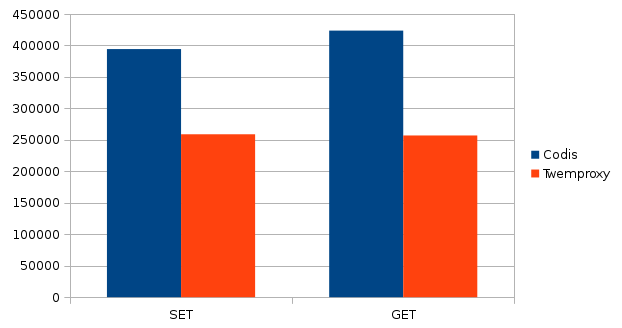
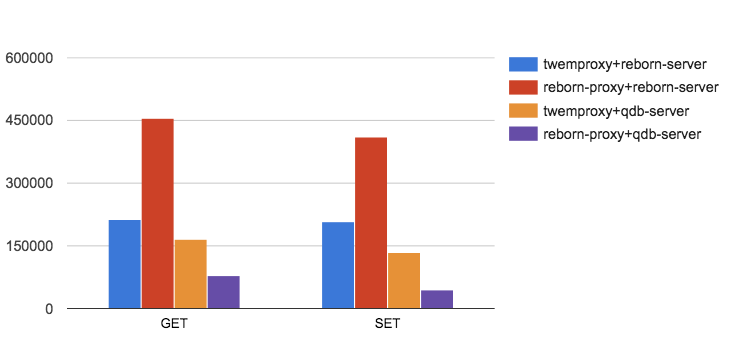
Modify bench

diff --git a/README.md b/README.md
@@ -8,7 +8,7 @@ Reborn is engineered to elastically scale, Easily add or remove redis or proxy i
 
 [![Build Status](https://travis-ci.org/reborndb/reborn.svg)](https://travis-ci.org/reborndb/reborn)
 
-##Features
+## Features
 * Auto rebalance
 * Extremely simple to use 
 * Support both redis or rocksdb transparently
@@ -41,28 +41,72 @@ Reborn is engineered to elastically scale, Easily add or remove redis or proxy i
 
 [简体中文](https://github.com/reborndb/reborn/blob/master/doc/FAQ_zh.md)
 
-[English (WIP) ](https://github.com/reborndb/reborn/blob/master/doc/FAQ_en.md)
+[English](https://github.com/reborndb/reborn/blob/master/doc/FAQ_en.md)
 
 ## Performance (Benchmark)
-Intel(R) Core(TM) i7-4770 CPU @ 3.40GHz
+OS:   Ubuntu SMP x86_64 GNU/Linux
 
-MemTotal: 16376596 kB
+CPU:  Intel(R) Core(TM) i7-4790 CPU @ 3.60GHz(8 cores)
+
+Mem:  16G
+
+Disk: 256G SSD
 
 
-Twemproxy:  
-  redis-benchmark -p 22121 -c 500 -n 5000000 -P 100 -r 10000 -t get,set
-  
-Reborn:  
-  redis-benchmark -p 19000 -c 500 -n 5000000 -P 100 -r 10000 -t get,set
++ twemproxy
+  - version 0.4.1
+  - config
+    ```
+    alpha:
+      listen: 127.0.0.1:22121
+      hash: crc32a
+      hash_tag: "{}"
+      distribution: ketama
+      auto_eject_hosts: false
+      timeout: 400
+      redis: true
+      servers:
+       - 127.0.0.1:6381:1
+       - 127.0.0.1:6382:1
+    ```
+
++ qdb-server
+  - see [here](https://github.com/reborndb/qdb)
+
+####1 twemproxy + 2 reborn-server  
+  redis-benchmark -p 22121 -c 500 -n 5000000 -P 100 -r 10000 -t get,set -q
+
+```
+SET: 209100.03 requests per second
+GET: 212404.41 requests per second
+```
+
+####1 reborn-proxy + 2 reborn-server  
+  redis-benchmark -p 19000 -c 500 -n 5000000 -P 100 -r 10000 -t get,set -q
+
+```
+SET: 410273.22 requests per second
+GET: 455913.19 requests per second
+```
+
+####1 twemproxy + 2 qdb-server  
+  redis-benchmark -p 22121 -c 500 -n 5000000 -P 100 -r 10000 -t get,set -q
+
+```
+SET: 133212.55 requests per second
+GET: 165584.84 requests per second
+```
+####1 reborn-proxy + 2 qdb-server  
+  redis-benchmark -p 19000 -c 500 -n 5000000 -P 100 -r 10000 -t get,set -q
+
+```
+SET: 45909.04 requests per second
+GET: 77690.41 requests per second
+```
 
 Result:  
 
-![main](doc/bench.png)  
-
-
-
-[简体中文](https://github.com/reborndb/reborn/blob/master/doc/benchmark_zh.md)  
-English (WIP)
+![main](doc/bench.png)
 
 ## For Java users who want to support HA
 
